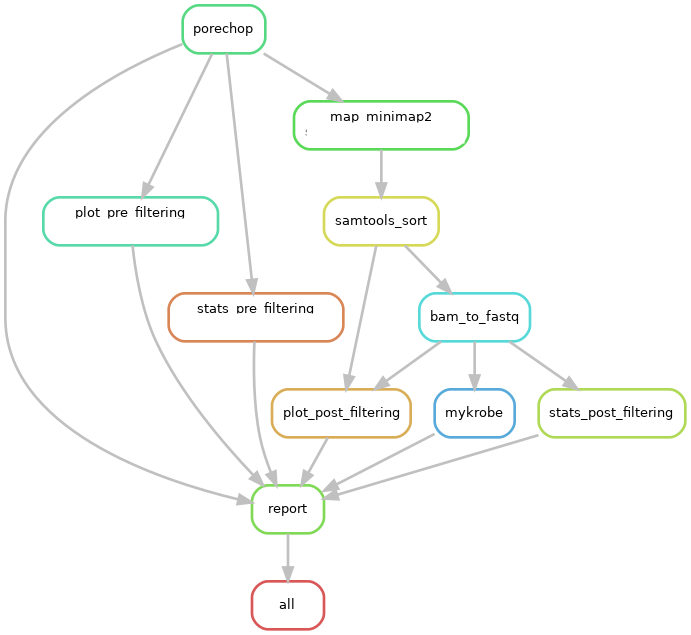
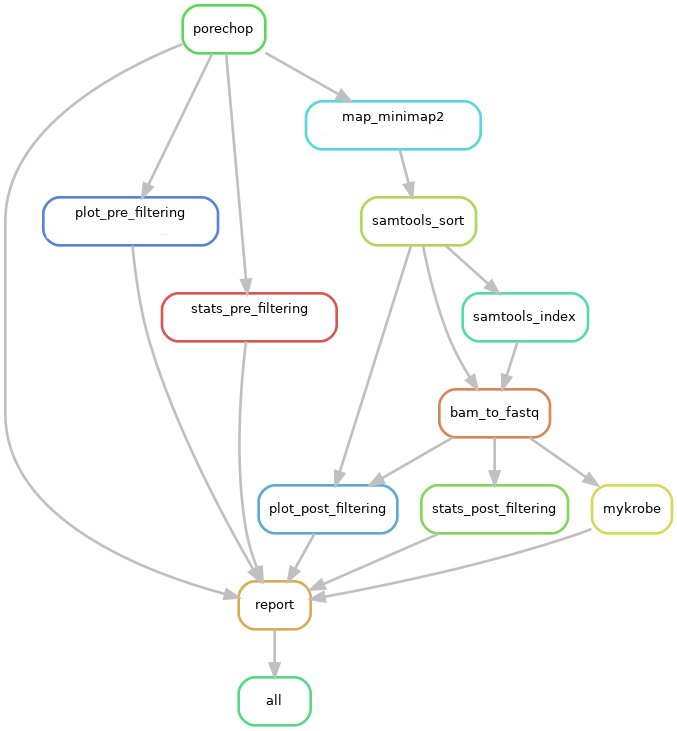
fix bugs after running full tests on pipeline

diff --git a/scripts/report.py b/scripts/report.py
@@ -30,7 +30,7 @@ def mykrobe_overview(filepath: str) -> dict:
     :returns A dictionary of the susceptibility results.
 
     """
-    sample_id = os.path.basename(filepath).split('.')[0].split('_')[0]
+    sample_id = os.path.basename(filepath).split('.')[0].split('_predict')[0]
     with open(filepath, 'r') as mykrobe_json:
         data = json.load(mykrobe_json)
     return data[sample_id].get('susceptibility', {})
@@ -103,10 +103,10 @@ def load_json(filepath: str) -> dict:
     return data
 
 
-reference = os.path.splitext(os.path.basename(snakemake.config["tb_reference"]))[0]
+reference = os.path.splitext(os.path.basename(snakemake.config["reference"]))[0]
 mykrobe_report = mykrobe_rst_list(mykrobe_overview(snakemake.input.mykrobe))
-num_reads_pre_filter = get_num_reads(snakemake.input.stats_pre)
-num_reads_post_filter = get_num_reads(snakemake.input.stats_post)
+num_reads_pre_filter = get_num_reads(snakemake.input.stats_pre_filter)
+num_reads_post_filter = get_num_reads(snakemake.input.stats_post_filter)
 percent_reads_mapped = round(num_reads_post_filter / num_reads_pre_filter * 100, 2)
 sample=snakemake.params.sample
 
@@ -128,9 +128,9 @@ Report for {sample}
 
 Quality Control
 ===================================
-1. Porechop_ was run to trim adapter sequences from reads and discard reads with adapters found in the middle. More detailed information can be found in `porechop_log`_. For quality control plots of the reads after this step, see `plot_pre`_.
+1. Porechop_ was run to trim adapter sequences from reads and discard reads with adapters found in the middle. More detailed information can be found in `porechop_log`_. For quality control plots of the reads after this step, see `plot_pre_filter`_.
 2. Reads were aligned to the TB reference {reference} using Minimap2_.
-3. All reads which did not map to {reference} were removed. Prior to filtering there were {num_reads_pre_filter} reads. After filtering there remains {num_reads_post_filter}. This means {percent_reads_mapped}% of reads mapped to {reference}. For more stats on the pre-filtered reads see `stats_pre`_ and for post-filtered reads see `stats_post`_. For quality control plots of the reads after this step (and read percent identity to {reference}) see `plot_post`_. Stats were produced with NanoStat_ and plots with Pistis_.
+3. All reads which did not map to {reference} were removed. Prior to filtering there were {num_reads_pre_filter} reads. After filtering there remains {num_reads_post_filter}. This means {percent_reads_mapped}% of reads mapped to {reference}. For more stats on the pre-filtered reads see `stats_pre_filter`_ and for post-filtered reads see `stats_post_filter`_. For quality control plots of the reads after this step (and read percent identity to {reference}) see `plot_post_filter`_. Stats were produced with NanoStat_ and plots with Pistis_.
 
 Mykrobe Analysis
 ===================================
